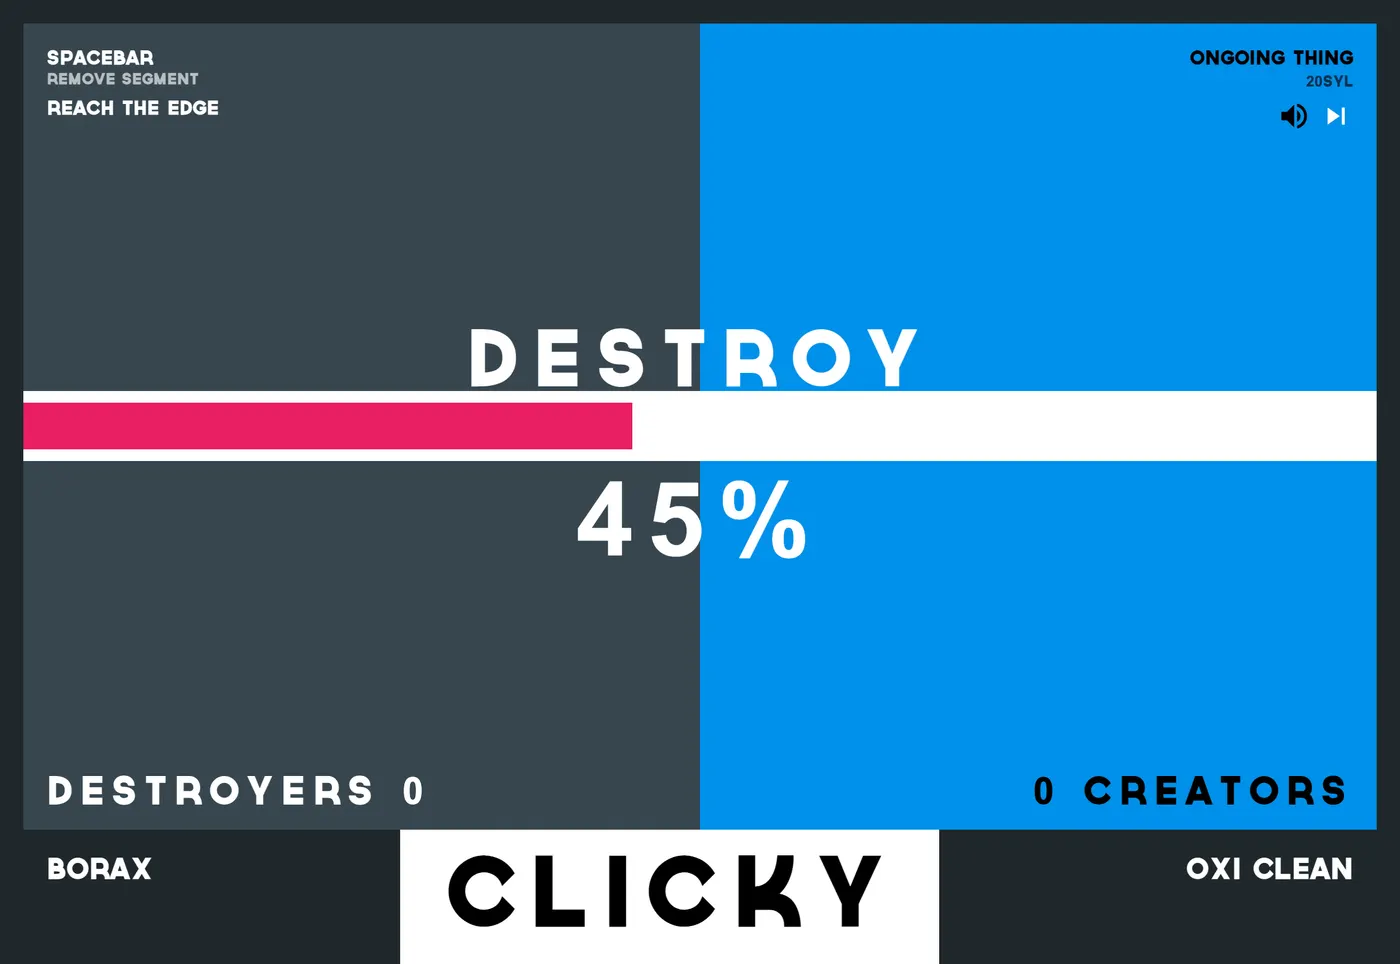
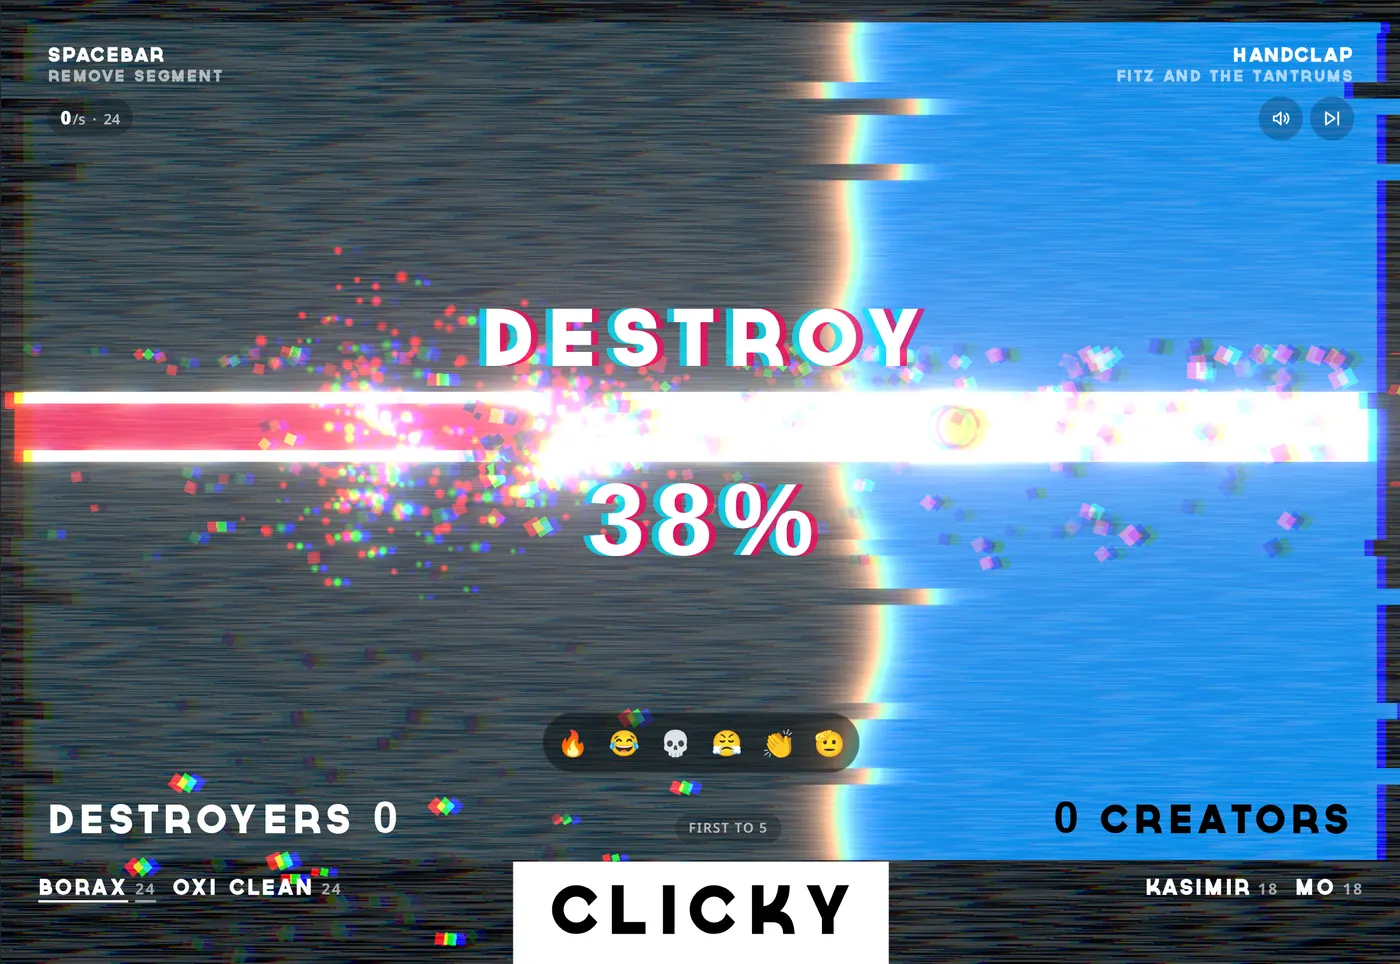
Retake the Clicky screenshots from the rebuilt game, and add four more

diff --git a/client/src/data/projects.ts b/client/src/data/projects.ts
@@ -286,7 +286,7 @@ export const projects: Project[] = [
     end: new Date('2018-05-10'),
     url: 'https://clicky.wohlbruck.dev',
     github: 'https://github.com/alexwohlbruck/clicky',
-    images: ['game.png', 'logo.png', 'name.png'],
+    images: ['game.png', 'close-call.png', 'home.png', 'lobby.png', 'results.png', 'mobile.png', 'intro.png'],
     tags: [
       'client-side',
       'server-side',
